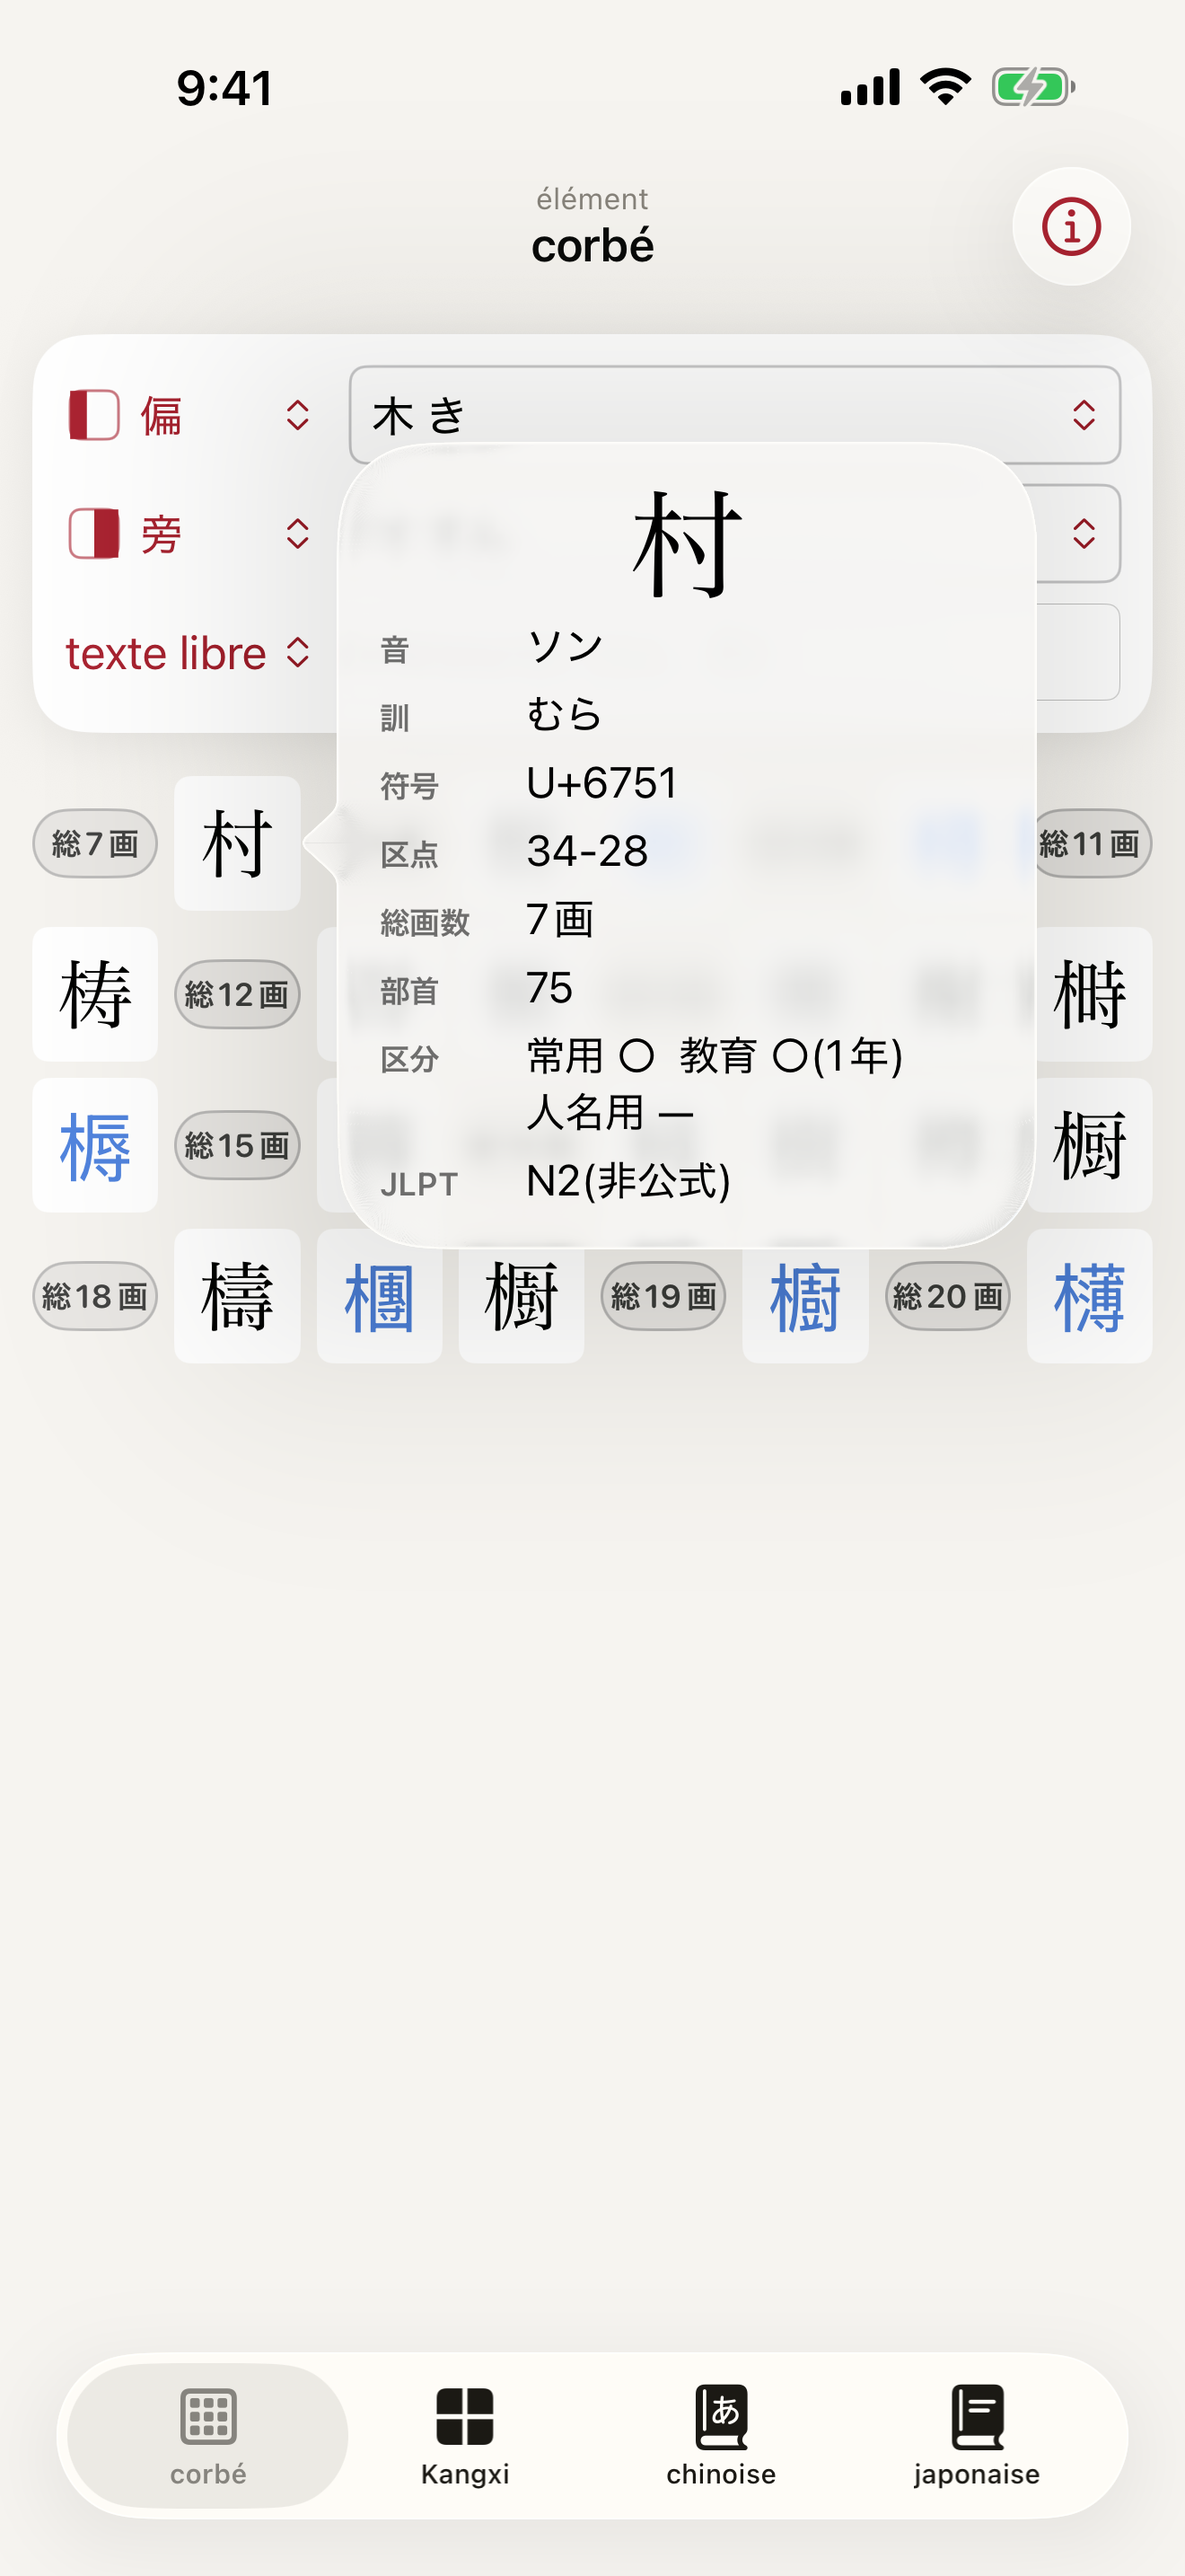
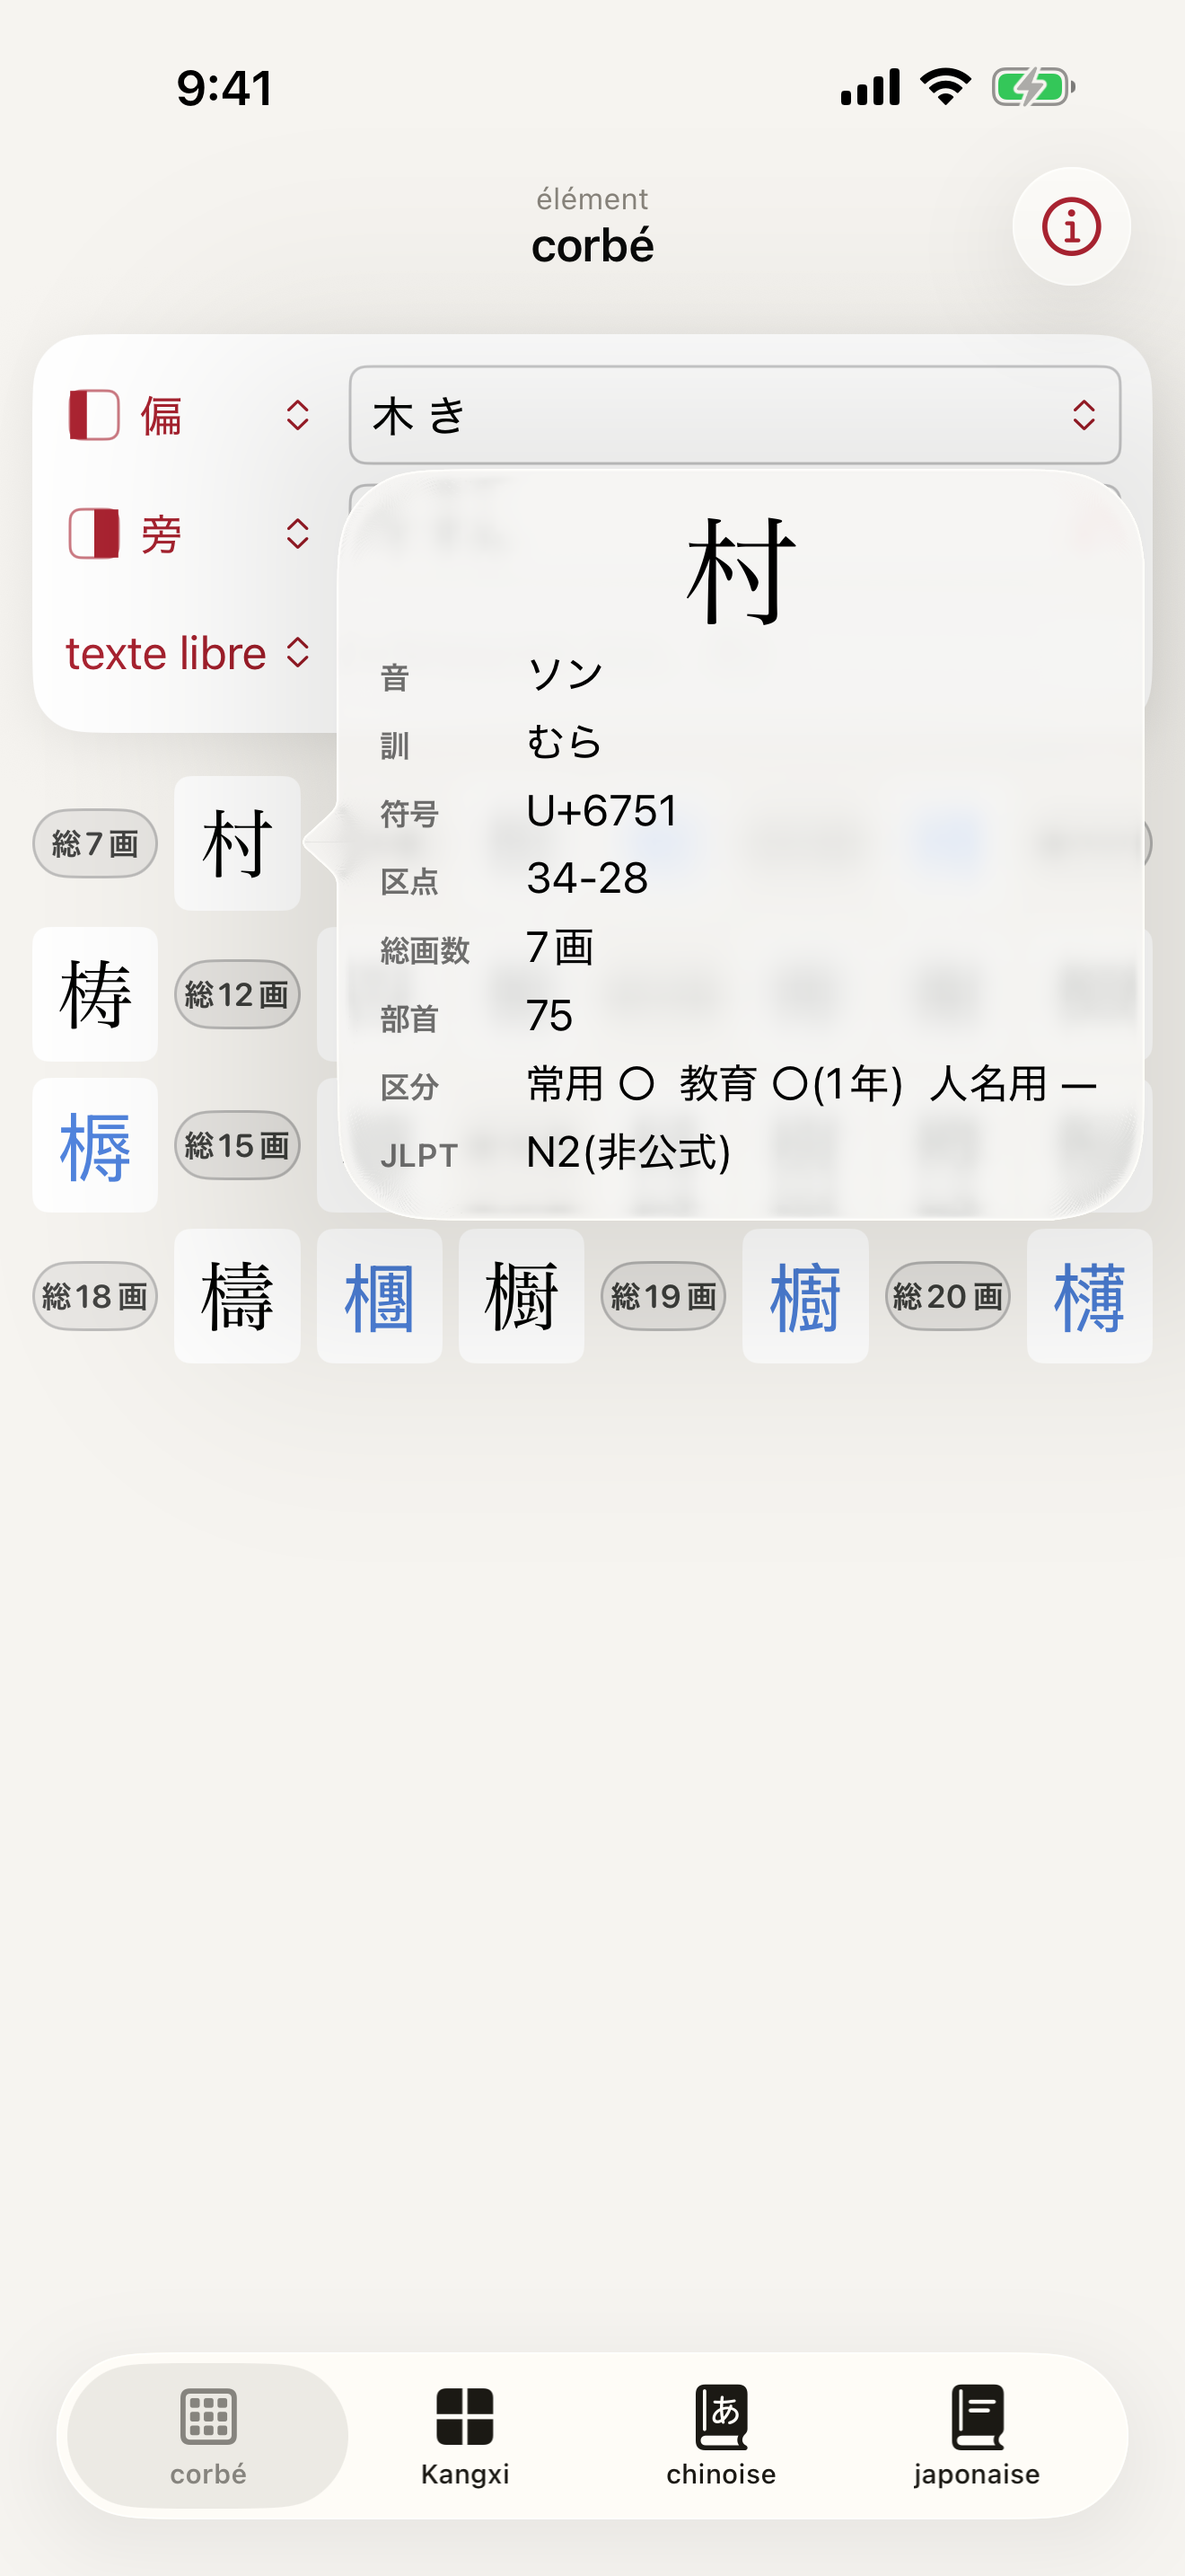
style(detail): 長押しの詳細で区分の行が折り返さないよう、枠を広げ、狭い画面では字を少し縮める

diff --git a/Packages/CorbeKit/Sources/CorbeUI/KanjiDetailView.swift b/Packages/CorbeKit/Sources/CorbeUI/KanjiDetailView.swift
@@ -17,11 +17,11 @@ struct KanjiDetailView: View {
             row("区点", value: entry.kuten.isEmpty ? "—" : entry.kuten, identifier: "detail.kuten")
             row("総画数", value: entry.totalStrokes > 0 ? "\(entry.totalStrokes)画" : "—", identifier: "detail.totalStrokes")
             row("部首", value: "\(entry.radical)", identifier: "detail.radical")
-            row("区分", value: Self.categoryText(entry), identifier: "detail.category")
+            row("区分", value: Self.categoryText(entry), identifier: "detail.category", singleLine: true)
             row("JLPT", value: entry.jlptLevel.map { "N\($0)(非公式)" } ?? "—", identifier: "detail.jlpt")
         }
         .padding(16)
-        .frame(minWidth: 220, idealWidth: 260, maxWidth: 320)
+        .frame(minWidth: 220, idealWidth: 300, maxWidth: 340)
         .accessibilityElement(children: .contain)
         .accessibilityIdentifier("kanjiDetail")
     }
@@ -35,7 +35,8 @@ struct KanjiDetailView: View {
         return "常用 \(mark(entry.isJoyo))  教育 \(school)  人名用 \(jinmeiyo)"
     }
 
-    private func row(_ title: String, value: String, identifier: String) -> some View {
+    // singleLine: 区分のように折り返すと読みにくい行は、小さい画面(吹き出しが狭い)では字を少し縮めて 1 行に収める
+    private func row(_ title: String, value: String, identifier: String, singleLine: Bool = false) -> some View {
         HStack(alignment: .firstTextBaseline, spacing: 10) {
             Text(title)
                 .font(.caption.weight(.semibold))
@@ -43,7 +44,9 @@ struct KanjiDetailView: View {
                 .frame(width: 44, alignment: .leading)
             Text(value)
                 .font(.callout)
-                .fixedSize(horizontal: false, vertical: true)
+                .lineLimit(singleLine ? 1 : nil)
+                .minimumScaleFactor(singleLine ? 0.75 : 1)
+                .fixedSize(horizontal: false, vertical: !singleLine)
                 .textSelection(.enabled)
                 .accessibilityIdentifier(identifier)
         }
